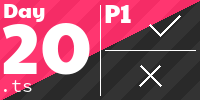
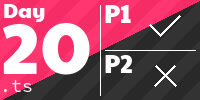
Adjust tiles rendering

diff --git a/AoCTiles/create_aoc_tiles.py b/AoCTiles/create_aoc_tiles.py
@@ -188,7 +188,7 @@ class HTML:
 def darker_color(c: tuple[int, int, int, int]) -> tuple[int, int, int, int]:
     return c[0] - 10, c[1] - 10, c[2] - 10, 255
 
-def get_alternating_background(languages, both_parts_completed=True, *, stripe_width=20):
+def get_alternating_background(languages, part1_completed=False, part2_completed=False, *, stripe_width=20):
     colors = [ImageColor.getrgb(extension_to_color[language]) for language in languages]
     if len(colors) == 1:
         colors.append(darker_color(colors[0]))
@@ -202,8 +202,8 @@ def get_alternating_background(languages, both_parts_completed=True, *, stripe_w
                 image.load()[x, y] = colors[((x + y) // stripe_width) % len(colors)]
 
     fill_with_colors([NOT_COMPLETED_COLOR, darker_color(NOT_COMPLETED_COLOR)], False)
-    if colors:
-        fill_with_colors(colors, not both_parts_completed)
+    if colors and part1_completed:
+        fill_with_colors(colors, not part2_completed)
     return image
 
 def format_time(time: str) -> str:
@@ -227,7 +227,11 @@ def draw_star(drawer: ImageDraw, at: tuple[int, int], size=9, color="#ffff0022",
 
 def generate_day_tile_image(day: str, year: str, languages: list[str], day_scores: DayScores | None) -> Path:
     """Saves a graphic for a given day and year. Returns the path to it."""
-    image = get_alternating_background(languages, not (day_scores is None or day_scores.time2 is None))
+    image = get_alternating_background(
+        languages,
+        not (day_scores is None),
+        day_scores and not (day_scores.time2 is None)
+    )
     drawer = ImageDraw(image)
     font_color = "white"
 
@@ -243,8 +247,8 @@ def generate_day_tile_image(day: str, year: str, languages: list[str], day_score
     for part in (1, 2):
         y = 50 if part == 2 else 0
         time, rank = getattr(day_scores, f"time{part}", None), getattr(day_scores, f"rank{part}", None)
+        drawer.text((104, -5 + y), f"P{part} ", fill=font_color, align="left", font=main_font(25))
         if day_scores is not None and time is not None:
-            drawer.text((104, -5 + y), f"P{part} ", fill=font_color, align="left", font=main_font(25))
             if SHOW_CHECKMARK_INSTEAD_OF_TIME_RANK:
                 drawer.line((160, 35 + y, 150, 25 + y), fill=font_color, width=2)
                 drawer.line((160, 35 + y, 180, 15 + y), fill=font_color, width=2)
@@ -254,11 +258,11 @@ def generate_day_tile_image(day: str, year: str, languages: list[str], day_score
             drawer.text((143, 3 + y), format_time(time), fill=font_color, align="right", font=secondary_font(18))
             drawer.text((133, 23 + y), f"{rank:>6}", fill=font_color, align="right", font=secondary_font(18))
         else:
-            drawer.line((140, 15 + y, 160, 35 + y), fill=font_color, width=2)
-            drawer.line((140, 35 + y, 160, 15 + y), fill=font_color, width=2)
+            drawer.line((155, 15 + y, 175, 35 + y), fill=font_color, width=2)
+            drawer.line((155, 35 + y, 175, 15 + y), fill=font_color, width=2)
 
-    if day_scores is None:
-        drawer.line((15, 85, 85, 85), fill=font_color, width=2)
+    # if day_scores is None:
+    #     drawer.line((15, 85, 85, 85), fill='font_color', width=2)
 
     # === Divider lines ===
     drawer.line((100, 5, 100, 95), fill=font_color, width=1)
@@ -267,7 +271,6 @@ def generate_day_tile_image(day: str, year: str, languages: list[str], day_score
     path = IMAGE_DIR / f"{year}/{day}.png"
     path.parent.mkdir(parents=True, exist_ok=True)
     image.save(path)
-    print(path)
     return path
 
 def handle_day(day: int, year: int, solutions: list[str], html: HTML, day_scores: DayScores | None):
